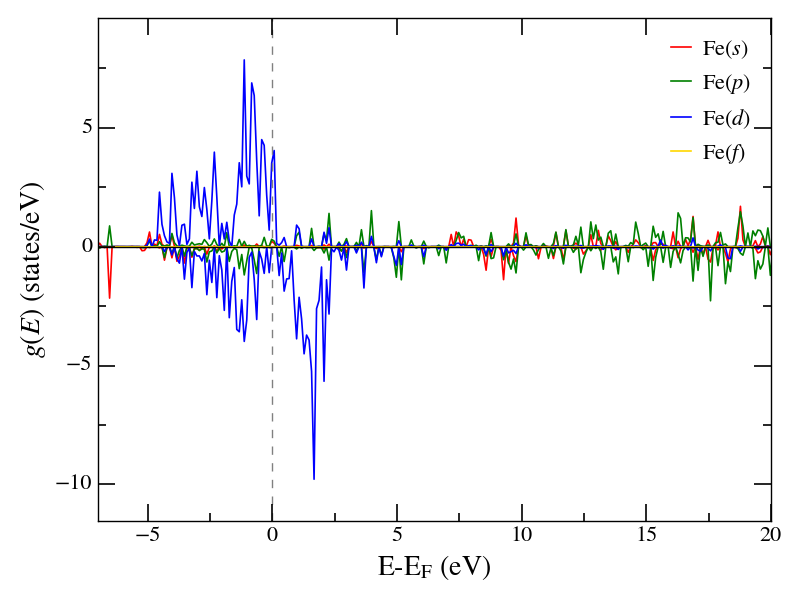
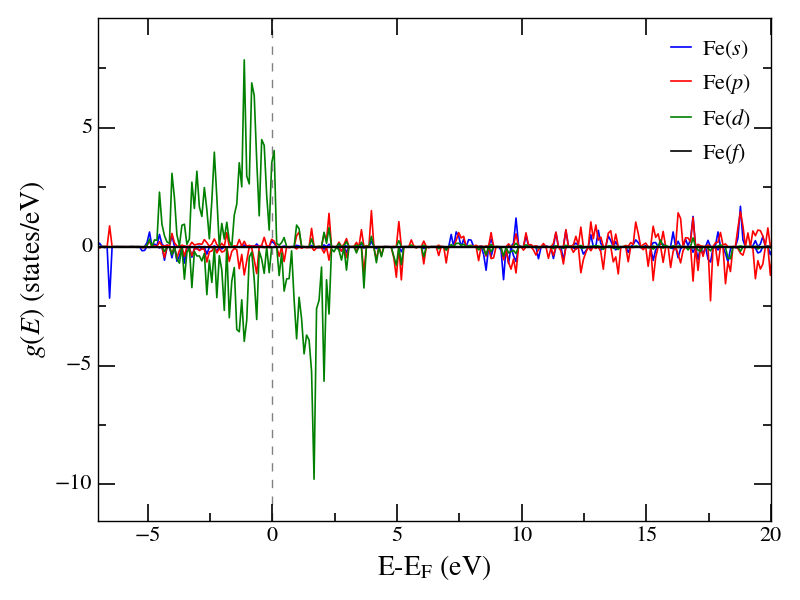
Updated examples

Changed region(s): [[0.125, 0.12, 0.9688, 0.78]]

diff --git a/Examples/Fe_dos/Fe_dos.py b/Examples/Fe_dos/Fe_dos.py
@@ -21,7 +21,7 @@ Fe_bands.plot_dos(ax,
                   pdos=True,
                   Elim=[-7,20],
                   dE=1e-1,
-                  pdos_colors = ['red','green','blue','gold']) # We have 4 angular momenta, s,p,d,f so specify 4 colours
+                  pdos_colors = ['blue','red','green','black']) # We have 4 angular momenta, s,p,d,f so specify 4 colours
 
 plt.tight_layout()
 plt.savefig("Fe_dos.png")
